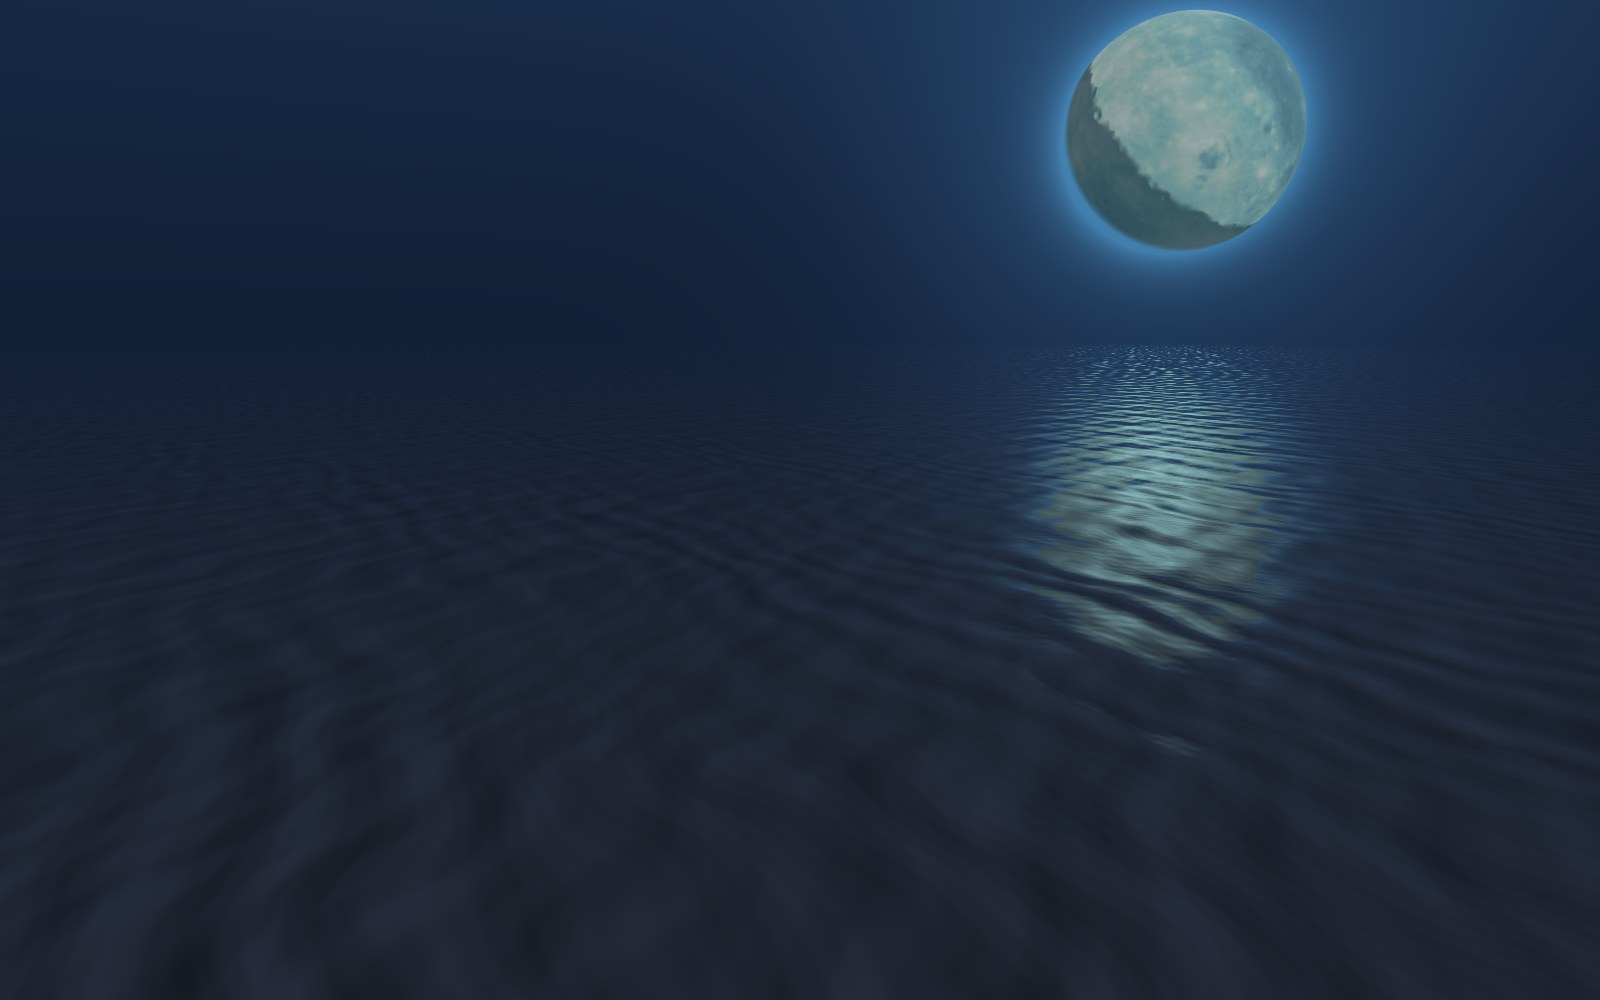
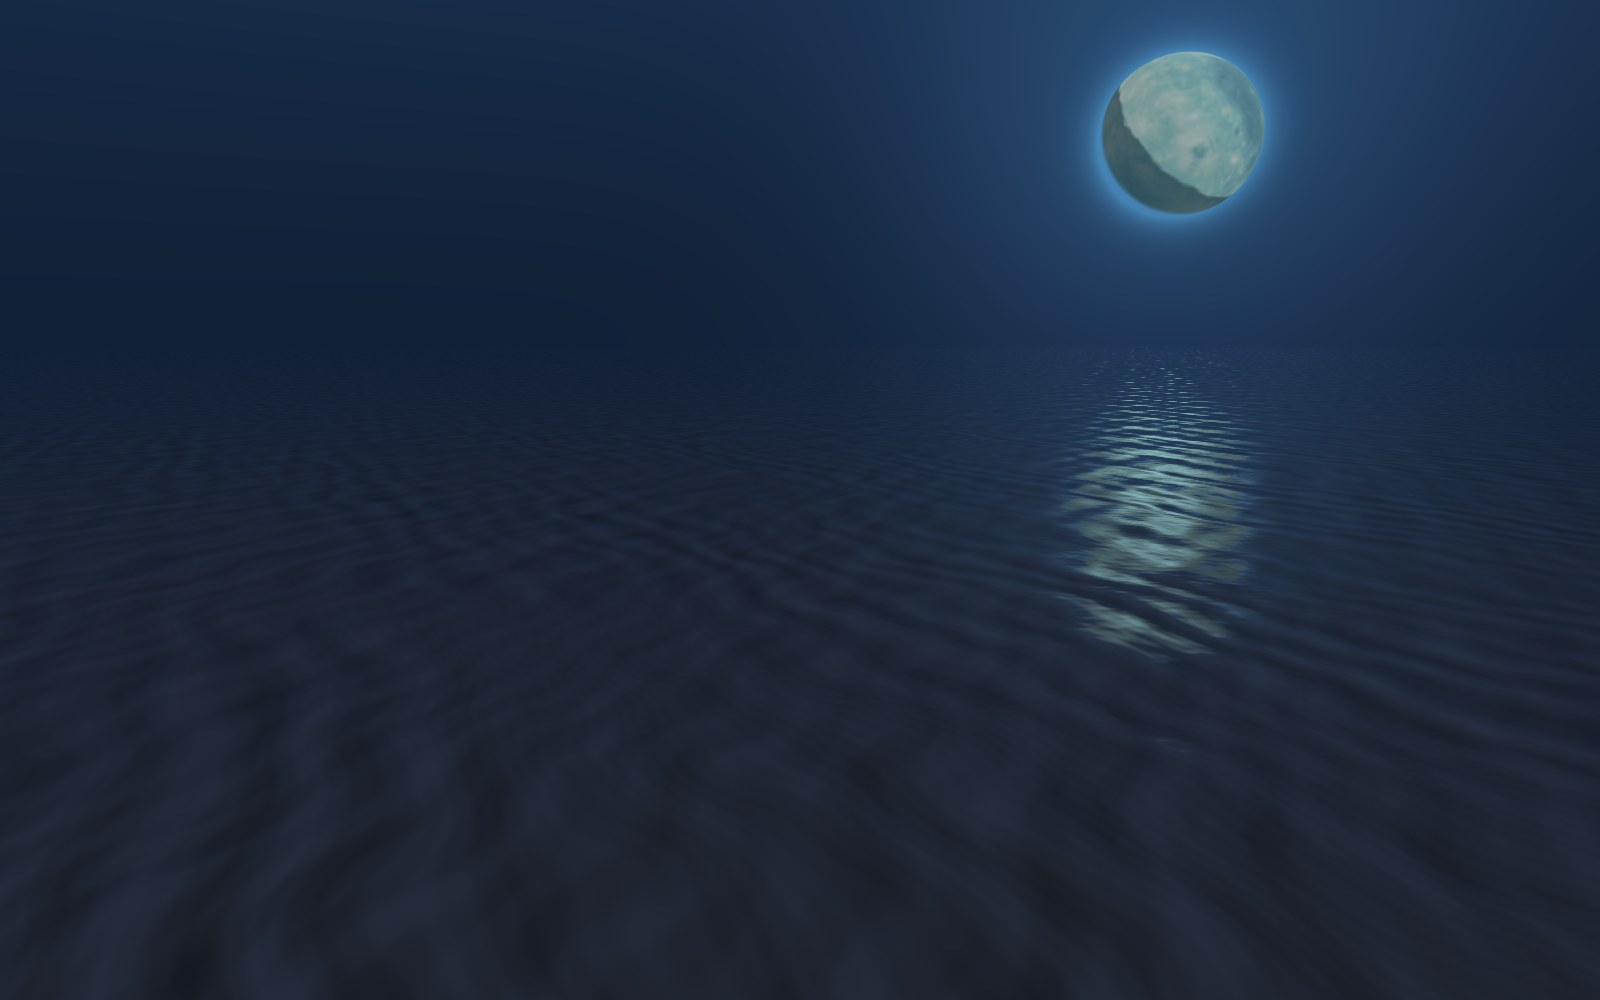
Wide: the moon the size it is in Cut
Wide drew the moon at the scene's true angular size (Above's), larger on
screen than Cut's diagram moon. It now matches Cut's size on screen; its halo
and its reflection on the waves scale with it. Above keeps the true size.

Changed region(s): [[0.625, 0.0, 0.8438, 0.279], [0.625, 0.341, 0.8125, 0.62], [0.6875, 0.62, 0.75, 0.651]]

diff --git a/public/games/flymetothemoon/index.html b/public/games/flymetothemoon/index.html
@@ -894,10 +894,11 @@
       uZr: { value: new THREE.Vector2() }, uSunDir: { value: new THREE.Vector3() }, uCamPos: { value: new THREE.Vector3() },
       uEyeP: { value: new THREE.Vector3(0, -3, 0) }, uMoonScr: { value: new THREE.Vector3() }, uSideLight: { value: 0 },
       uMoonMap: moonUniforms.uMap, uMoonMul: moonUniforms.uMoonMul, uMoonMix: moonUniforms.uMoonMix,
+      uMoonSin: { value: Math.sqrt(1 - 0.995 * 0.995) },   // the moon's angular radius (sine) in the sea views
     };
     const U = Object.assign({}, uniforms, own);
     const HEAD = WATER + `
-      uniform vec2 uZr, uRes; uniform vec3 uSunDir, uCamPos, uEyeP, uMoonScr, uMoonMul; uniform vec4 uMoonMix; uniform float uSideLight; uniform sampler2D uMoonMap;
+      uniform vec2 uZr, uRes; uniform vec3 uSunDir, uCamPos, uEyeP, uMoonScr, uMoonMul; uniform vec4 uMoonMix; uniform float uSideLight, uMoonSin; uniform sampler2D uMoonMap;
       // the moon's lit face under the current sky: its average albedo through the preset's tint and wash, as the
       // moon's own shader does. Reflections of it are no brighter than this
       vec3 moonFaceCol(){ return mix(vec3(0.435, 0.608, 0.604)*uMoonMul, uMoonMix.rgb, uMoonMix.a); }
@@ -921,7 +922,7 @@
       vec3 skyDome(vec3 d, vec3 m, float face){
         vec3 sky = mix(uSkyLow, uSkyHigh, smoothstep(0.0, 0.7, d.y));
         vec3 rt = normalize(cross(vec3(0.0, 1.0, 0.0), m)), up = cross(m, rt);
-        vec2 q = vec2(dot(d, rt), dot(d, up)) / sqrt(1.0 - MOON_COS*MOON_COS);   // in moon radii
+        vec2 q = vec2(dot(d, rt), dot(d, up)) / uMoonSin;   // in moon radii
         float c = dot(d, m), r = length(q) * step(0.0, c) + (1.0 - step(0.0, c)) * 1e3;
         sky += uHalo*uHaloGain*exp(-max(r - 0.99, 0.0)/0.19) + uGlowA*0.5*exp((c - 1.0)/0.03);
         return mix(sky, moonFace(q), face * smoothstep(1.0, 0.96, r));
@@ -1107,7 +1108,7 @@
         float F = 0.02 + 0.98*pow(1.0 - max(dot(-Vd, N), 0.0), 5.0);
         vec3 body = mix(hazeColour(vec3(0.0, 0.0, 1.0), 0.5), murkColour(), 0.25*uMurk);
         vec3 col = mix(body, skyDome(R, SKY_MOON, 1.0), F);
-        col += moonFaceCol() * F * 1.2 * exp((dot(R, SKY_MOON) - 1.0)/0.0025);   // the moon sparkling on the wave facets: its path of light
+        col += moonFaceCol() * F * 1.2 * exp((dot(R, SKY_MOON) - 1.0)/(0.0025 * uMoonSin*uMoonSin/0.00998));   // (sized to the moon)   // the moon sparkling on the wave facets: its path of light
         col *= 1.0 - clamp(sl.z*0.6, -0.2, 0.3);   // the broad waves' crests and troughs, as in the scene's light bands
         // only right at the horizon does the water fade out (a narrow band, as far off as the water goes), so a low
         // moon is cut by the sea and shows through just a sliver, rather than being painted over
@@ -1144,11 +1145,15 @@
       dome.position.copy(cam.position); sea.position.set(cam.position.x, 0, cam.position.z);
       renderer.setRenderTarget(null); renderer.clear();
       renderer.render(aboveSkyScene, cam);
-      drawMoon(cam, cam.position.clone().addScaledVector(m, 600), 600 * Math.sqrt(1 - 0.995 * 0.995));   // the scene's own size (MOON_COS)
+      // Above: the scene's own size (MOON_COS). Wide: the size it is on screen in Cut
+      const tv = 2 * Math.tan(THREE.MathUtils.degToRad(cam.fov / 2));
+      const sinR = view === 'wide' ? Math.sin(Math.atan(Math.min(innerWidth, innerHeight) * 0.07 * tv / innerHeight)) : Math.sqrt(1 - 0.995 * 0.995);
+      own.uMoonSin.value = sinR;
+      drawMoon(cam, cam.position.clone().addScaledVector(m, 600), 600 * sinR);
       renderer.render(aboveScene, cam);
       const ms = toScreen(...cam.position.clone().addScaledVector(m, 100).toArray(), cam);
       V.moonScr = ms;
-      V.moonR = Math.tan(Math.acos(0.995)) * innerHeight / (2 * Math.tan(THREE.MathUtils.degToRad(cam.fov / 2)));
+      V.moonR = Math.tan(Math.asin(sinR)) * innerHeight / tv;
       if (ov.width) { og.setTransform(1, 0, 0, 1, 0, 0); og.clearRect(0, 0, ov.width, ov.height); }
     }
 
